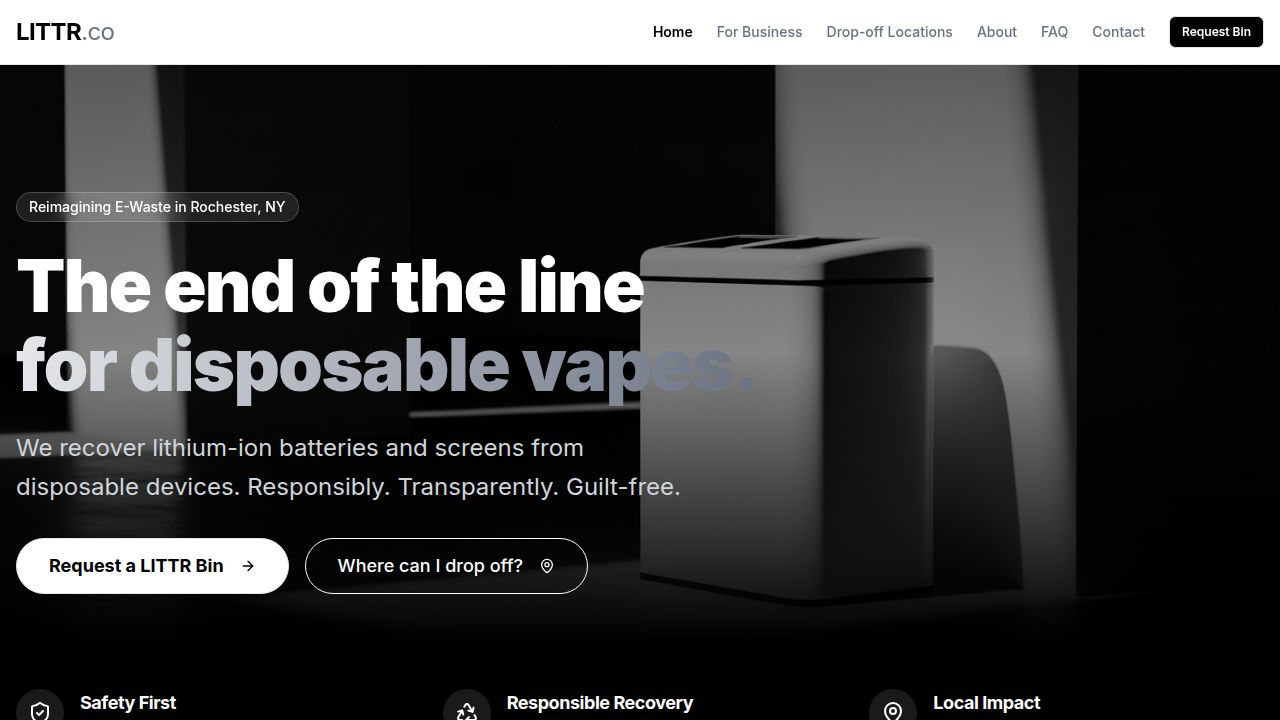
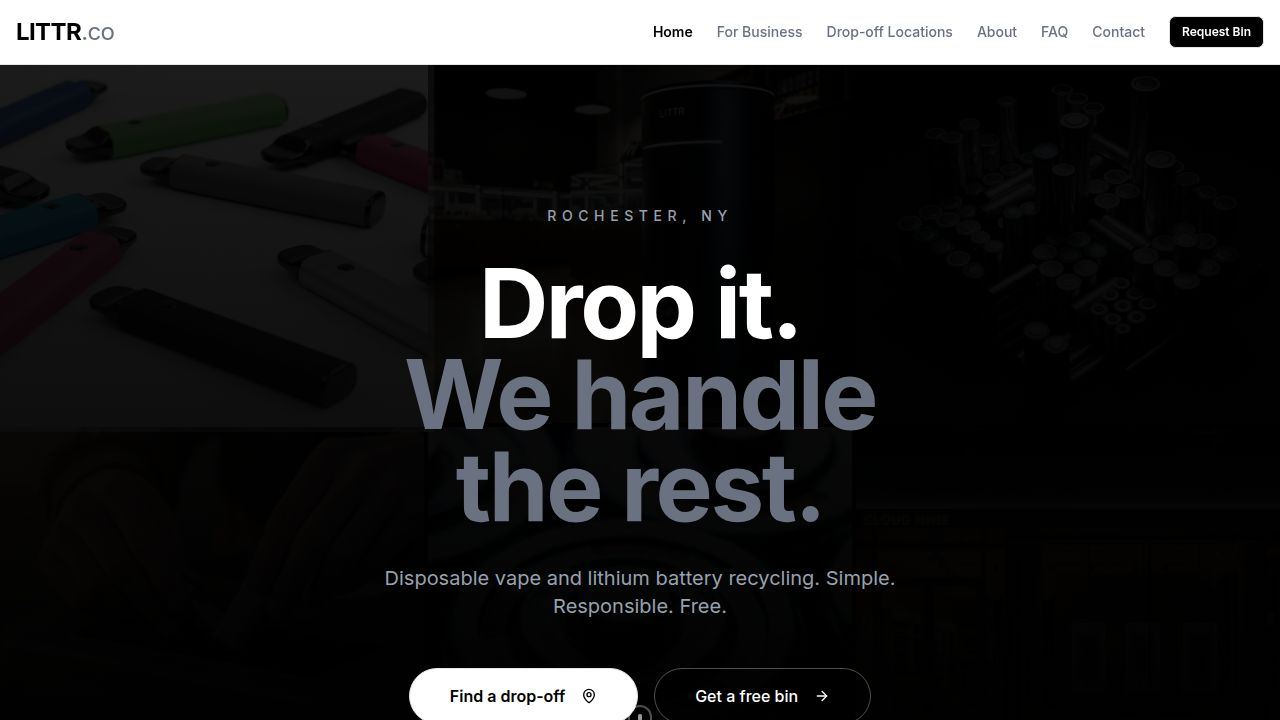
Improve page visuals by adding lazy loading to images
Add `loading="lazy"` attribute to all image elements within the Home page component to optimize image loading performance.

Replit-Commit-Author: Agent
Replit-Commit-Session-Id: f97b7af5-d80e-4d00-a61b-e9179ddc64ad
Replit-Commit-Checkpoint-Type: intermediate_checkpoint
Replit-Commit-Event-Id: 7ca973f6-fa47-46e6-833b-fe3b05ab0bc0
Replit-Commit-Screenshot-Url: https://storage.googleapis.com/screenshot-production-us-central1/90d26e03-2b98-43a8-bfaa-7dcc5fa7786a/f97b7af5-d80e-4d00-a61b-e9179ddc64ad/Qu3K3O9
Replit-Helium-Checkpoint-Created: true

diff --git a/client/src/pages/Home.tsx b/client/src/pages/Home.tsx
@@ -86,7 +86,7 @@ export default function Home() {
       <section className="py-0 bg-black">
         <div className="grid grid-cols-1 md:grid-cols-2">
           <div className="relative h-[50vh] md:h-[70vh]">
-            <img src={handsImage} alt="Recycling in action" className="w-full h-full object-cover" />
+            <img src={handsImage} alt="Recycling in action" className="w-full h-full object-cover" loading="lazy" />
             <div className="absolute inset-0 bg-gradient-to-t from-black/60 to-transparent" />
             <div className="absolute bottom-8 left-8 right-8 text-white">
               <h3 className="text-2xl font-bold mb-2">Takes 10 seconds</h3>
@@ -94,7 +94,7 @@ export default function Home() {
             </div>
           </div>
           <div className="relative h-[50vh] md:h-[70vh]">
-            <img src={binImage} alt="LITTR bin" className="w-full h-full object-cover" />
+            <img src={binImage} alt="LITTR bin" className="w-full h-full object-cover" loading="lazy" />
             <div className="absolute inset-0 bg-gradient-to-t from-black/60 to-transparent" />
             <div className="absolute bottom-8 left-8 right-8 text-white">
               <h3 className="text-2xl font-bold mb-2">Partner locations</h3>
@@ -115,7 +115,7 @@ export default function Home() {
           <div className="grid grid-cols-1 md:grid-cols-3 gap-8 max-w-5xl mx-auto">
             <div className="text-center">
               <div className="relative h-64 mb-6 rounded-2xl overflow-hidden">
-                <img src={vapesImage} alt="Collect" className="w-full h-full object-cover" />
+                <img src={vapesImage} alt="Collect" className="w-full h-full object-cover" loading="lazy" />
               </div>
               <div className="text-5xl font-bold text-gray-200 mb-2">01</div>
               <h3 className="text-xl font-semibold mb-2">Collect</h3>
@@ -123,7 +123,7 @@ export default function Home() {
             </div>
             <div className="text-center">
               <div className="relative h-64 mb-6 rounded-2xl overflow-hidden">
-                <img src={shopImage} alt="Drop" className="w-full h-full object-cover" />
+                <img src={shopImage} alt="Drop" className="w-full h-full object-cover" loading="lazy" />
               </div>
               <div className="text-5xl font-bold text-gray-200 mb-2">02</div>
               <h3 className="text-xl font-semibold mb-2">Drop</h3>
@@ -131,7 +131,7 @@ export default function Home() {
             </div>
             <div className="text-center">
               <div className="relative h-64 mb-6 rounded-2xl overflow-hidden">
-                <img src={sustainImage} alt="Recycle" className="w-full h-full object-cover" />
+                <img src={sustainImage} alt="Recycle" className="w-full h-full object-cover" loading="lazy" />
               </div>
               <div className="text-5xl font-bold text-gray-200 mb-2">03</div>
               <h3 className="text-xl font-semibold mb-2">Done</h3>
@@ -143,7 +143,7 @@ export default function Home() {
 
       {/* Big visual stat section */}
       <section className="relative py-32 overflow-hidden">
-        <img src={rochesterImage} alt="Rochester" className="absolute inset-0 w-full h-full object-cover" />
+        <img src={rochesterImage} alt="Rochester" className="absolute inset-0 w-full h-full object-cover" loading="lazy" />
         <div className="absolute inset-0 bg-black/70" />
         <div className="container mx-auto px-4 relative z-10 text-center text-white">
           <p className="text-sm uppercase tracking-widest text-gray-400 mb-6">The problem</p>

diff --git a/replit.md b/replit.md
@@ -1,0 +1,76 @@
+# LITTR.co - Vape & Battery Recycling Platform
+
+## Overview
+
+LITTR.co is a modern recycling company website focused on disposable vapes and lithium-ion battery recovery. The platform serves the Rochester, NY area, offering free drop-off locations for consumers and bin programs for businesses. The application features a minimalist black/white design aesthetic with form submissions for business bin requests, contact inquiries, and volunteer applications.
+
+## User Preferences
+
+Preferred communication style: Simple, everyday language.
+
+## System Architecture
+
+### Frontend Architecture
+- **Framework**: React 18 with TypeScript, using Vite as the build tool
+- **Routing**: Wouter for lightweight client-side routing
+- **Styling**: Tailwind CSS v4 with custom CSS variables for theming (black/white minimalist palette)
+- **UI Components**: shadcn/ui component library with Radix UI primitives
+- **State Management**: Zustand with persistence for client-side state, TanStack React Query for server state
+- **Forms**: React Hook Form with Zod validation
+
+### Backend Architecture
+- **Runtime**: Node.js with Express.js
+- **API Design**: RESTful endpoints under `/api/*` prefix
+- **Development**: Vite dev server with HMR proxied through Express
+- **Production**: Static file serving from built client assets
+
+### Data Storage
+- **Database**: PostgreSQL with Drizzle ORM
+- **Schema Location**: `shared/schema.ts` contains all table definitions
+- **Tables**: users, contacts, binRequests, volunteers
+- **Validation**: Drizzle-Zod for automatic schema-to-validation conversion
+
+### Project Structure
+```
+├── client/           # Frontend React application
+│   ├── src/
+│   │   ├── components/  # UI components (shadcn/ui + custom)
+│   │   ├── pages/       # Route page components
+│   │   ├── hooks/       # Custom React hooks
+│   │   └── lib/         # Utilities, query client, store
+├── server/           # Backend Express application
+│   ├── routes.ts     # API route definitions
+│   ├── storage.ts    # Database access layer
+│   └── db.ts         # Database connection
+├── shared/           # Shared code between client/server
+│   └── schema.ts     # Drizzle schema definitions
+└── migrations/       # Database migrations
+```
+
+### Key Design Patterns
+- **Shared Schema**: Database types and validation schemas shared between frontend and backend
+- **Storage Interface**: Abstract IStorage interface allowing for different storage implementations
+- **Path Aliases**: `@/` for client source, `@shared/` for shared modules, `@assets/` for attached assets
+
+## External Dependencies
+
+### Database
+- **PostgreSQL**: Primary database, connection via `DATABASE_URL` environment variable
+- **Drizzle ORM**: Type-safe database queries and migrations
+- **drizzle-kit**: Database migration tooling (`npm run db:push`)
+
+### UI/Frontend Libraries
+- **Radix UI**: Accessible component primitives (dialogs, accordions, forms, etc.)
+- **Lucide React**: Icon library
+- **Embla Carousel**: Carousel functionality
+- **date-fns**: Date formatting utilities
+
+### Build & Development
+- **Vite**: Frontend build tool with React plugin
+- **esbuild**: Server bundling for production
+- **tsx**: TypeScript execution for development
+
+### Form & Validation
+- **Zod**: Schema validation
+- **React Hook Form**: Form state management
+- **zod-validation-error**: Human-readable validation errors